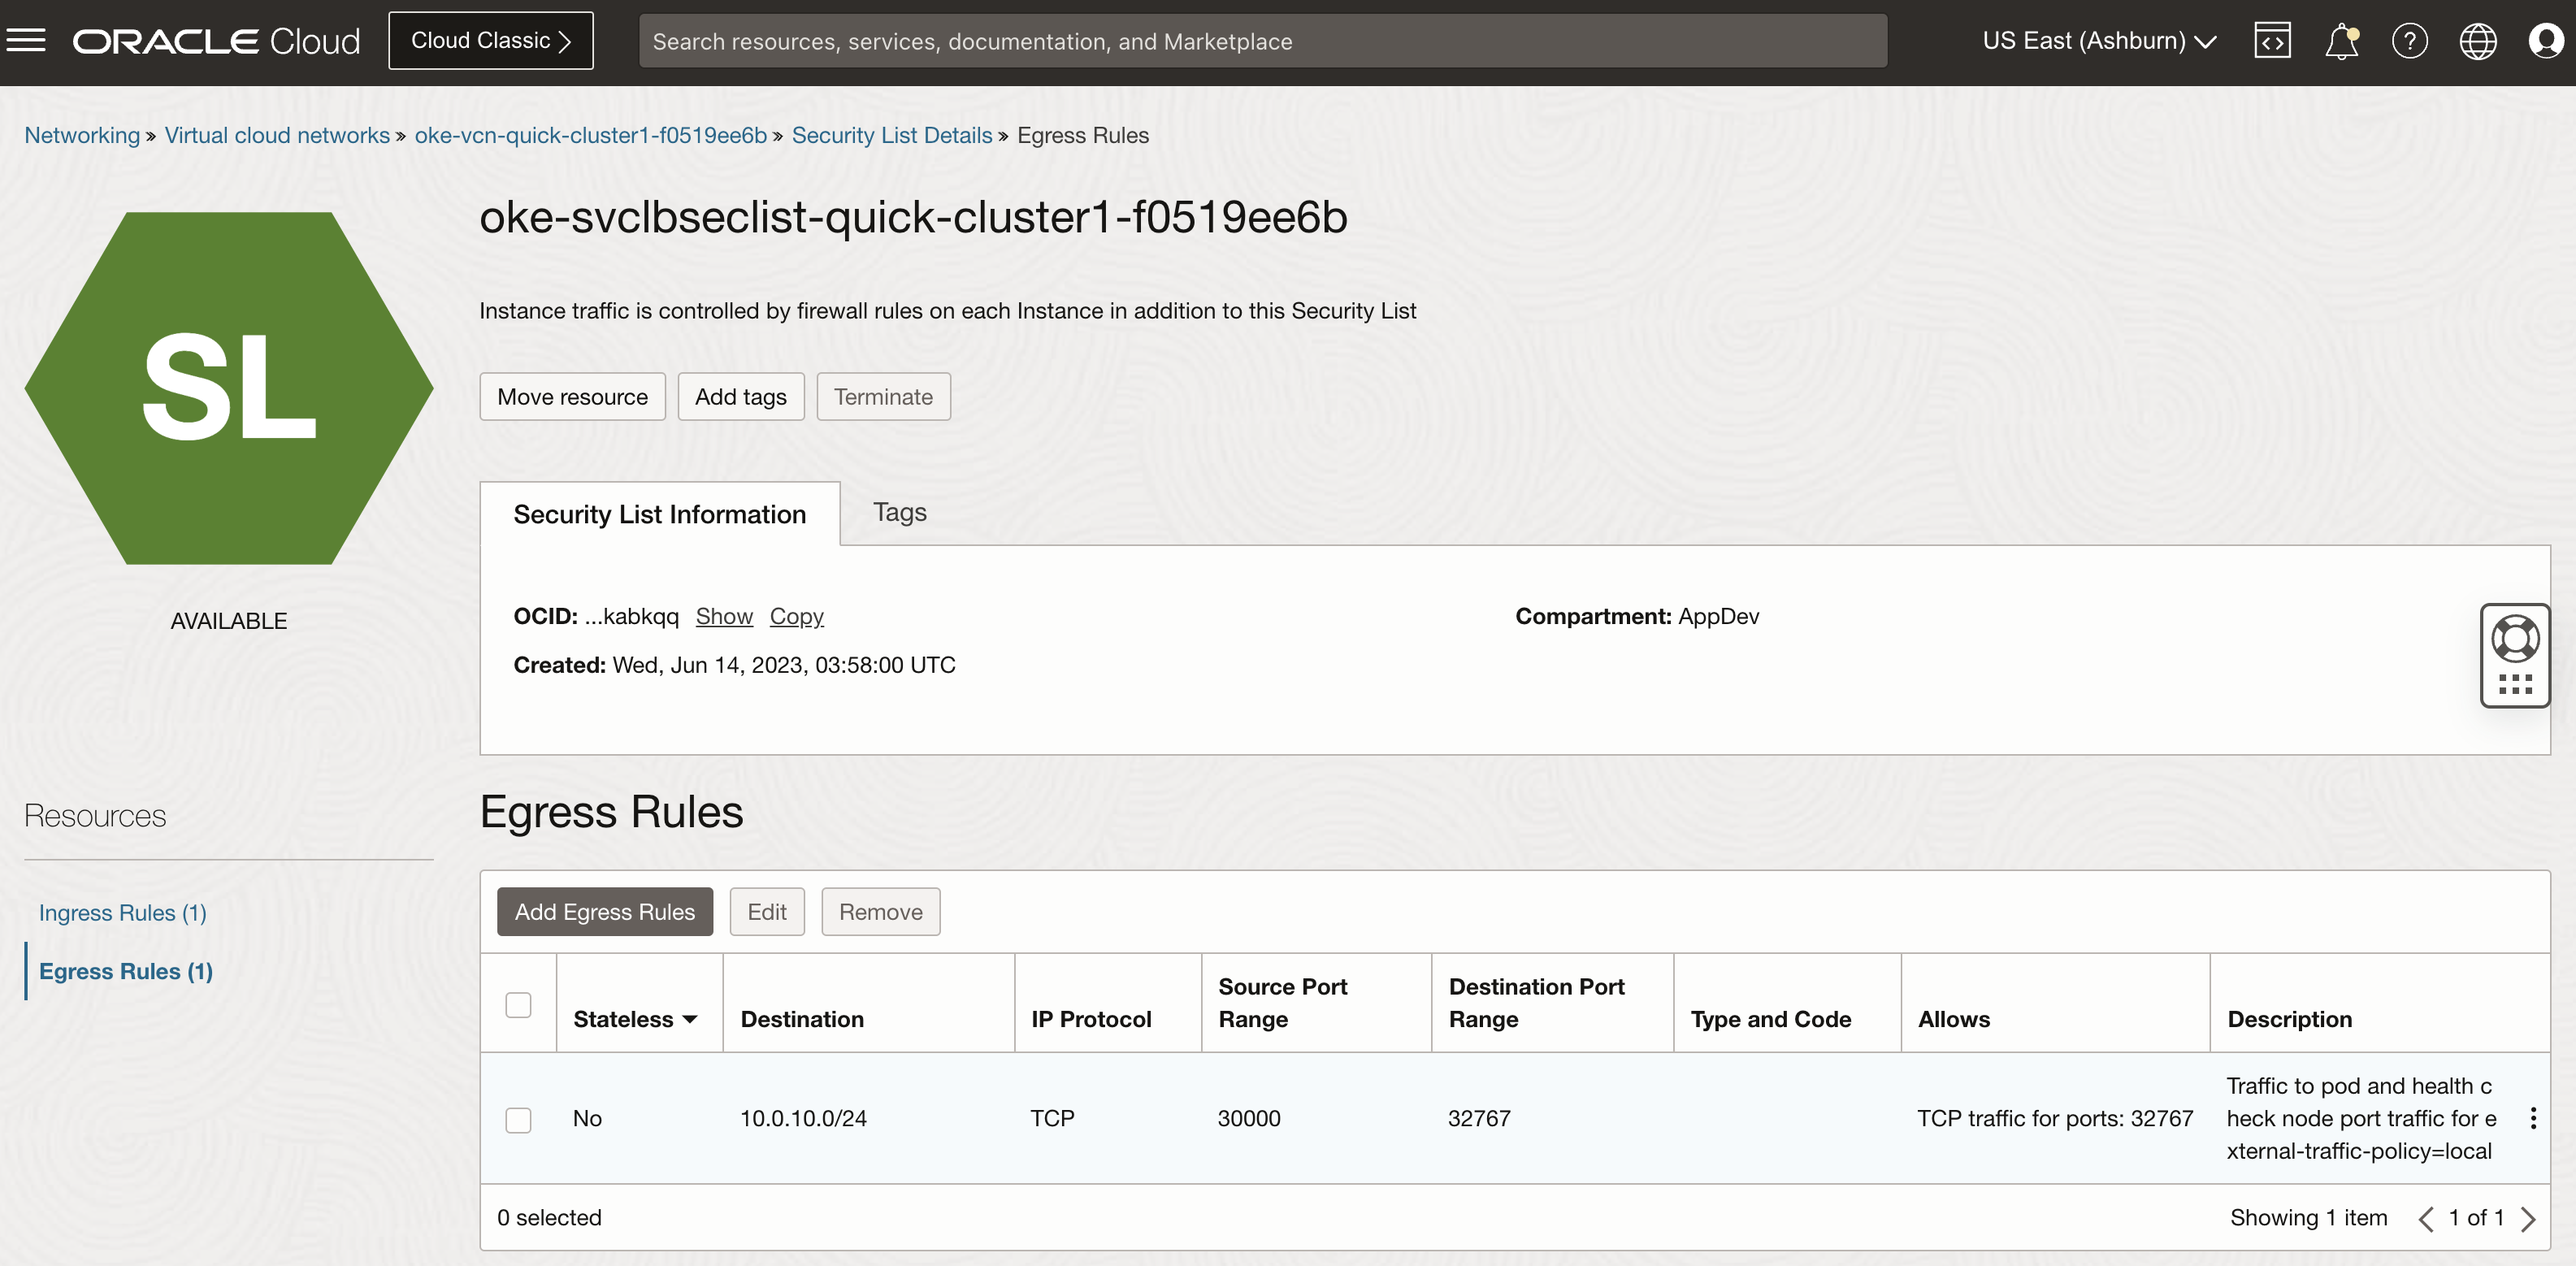
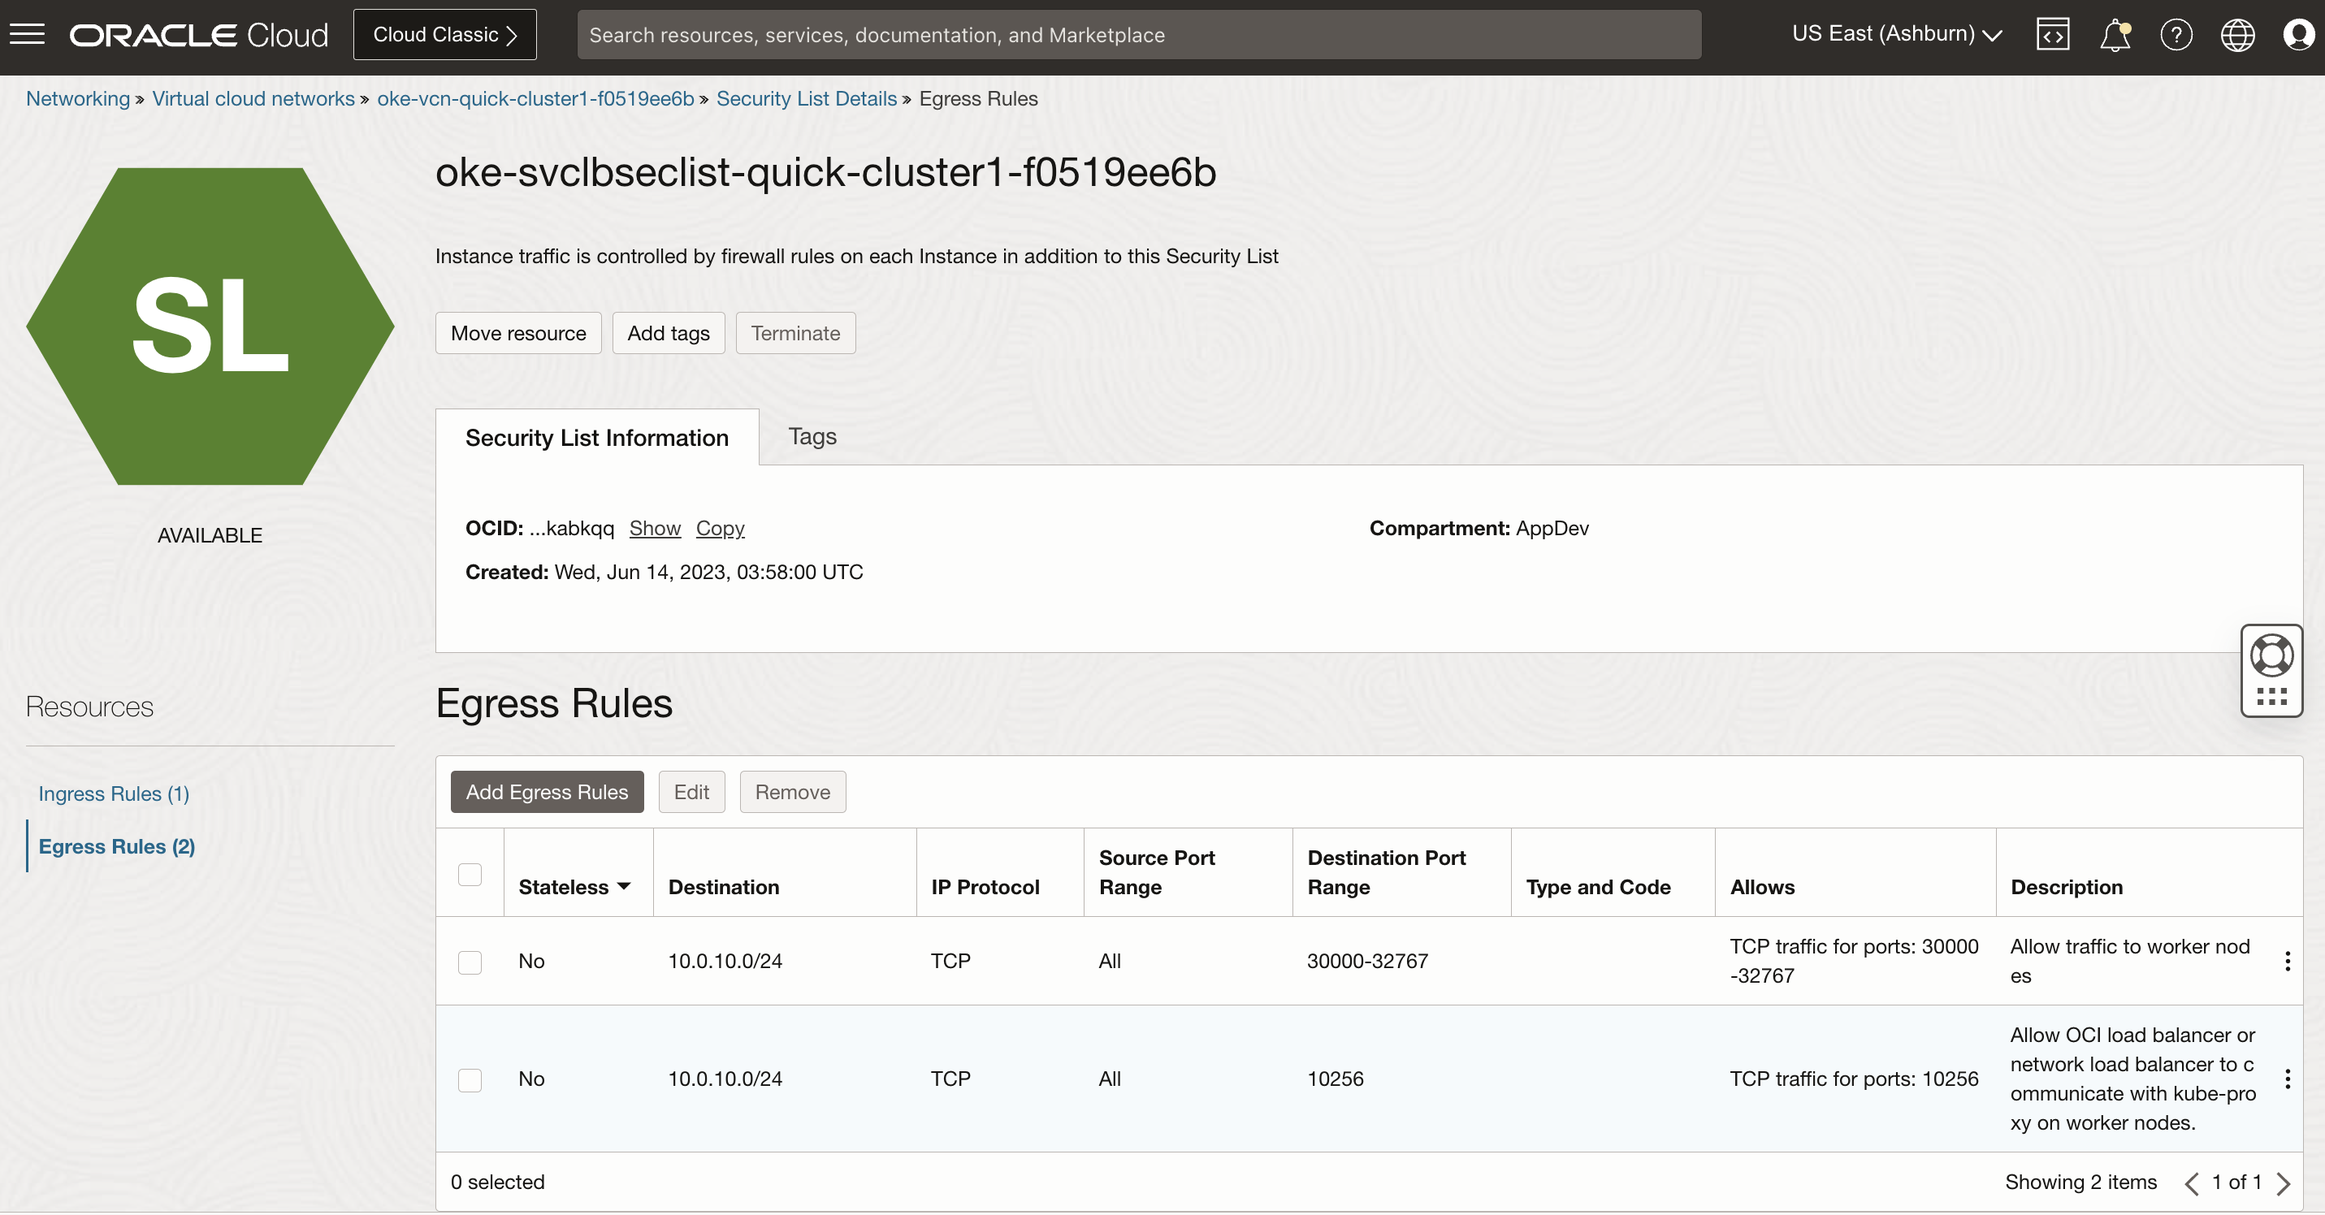
WMS ID: 11416 - oke-virtual-nodes: Updated and Fixed images as requested (#237)
* WMS: 11416 - oke-virtual-nodes init

* oke-virtual-nodes: Setup lab

* oke-virtual-nodes: Provision lab

* oke-virtual-nodes: Intro lab

* oke-virtual-nodes: updates

* oke virtual nodes update

* oke-virtual-nodes provision screeshots

* oke-virtual-nodes setup screeshots

* oke-virtual-nodes mushop screenshots

* oke-virtual-nodes: cleanup lab images

* oke-virtual-nodes labs screenshots update

* oke-virtual-nodes update

* oke-virtual-nodes: manifest updates

* oke-virtual-nodes: updates based on LabSquad feedback

* oke-virtual-nodes: labsquad feedback

* oke-virtual-nodes: cleanup

* oke-virtual-nodes: screenshot update

* oke-virtual-nodes qa=true changes

* oke-virtual-nodes self QA

* oke-virtual-nodes: ing removed from titles

* oke-virtual-nodes: images renamed for consistency

* oke-virtual-nodes self-QA complete

* oke-virtual-nodes: fixed issues raised by approver

* WMS 11416 OCW support update

* WMS 11416 - Updates and fixed based on review

* oke-virtual-nodes: improving setup steps

* oke-virtual-nodes: updated and fixed images

---------

diff --git a/oke-virtual-nodes/setup/setup.md b/oke-virtual-nodes/setup/setup.md
@@ -99,11 +99,11 @@ To create and use clusters with virtual nodes and virtual node pools, you must e
     * Destination Port Range: `30000-32767`
     * Description: `Allow traffic to worker nodes`
 
-    Click **Add Egress Rules** button
-
-    ![Add Egress Rules](images/oci-vcn-seclist-egress-add.png)
+    ![Add Egress Rule 1](images/oci-vcn-seclist-egress-add-1.png)
 
 1. Enter the **Egress Rule 2**.
+
+    Click **+Another Egress Rule** button
 
     * Destination Type: `CIDR`
     * Destination CIDR: `10.0.10.0/24`
@@ -111,6 +111,8 @@ To create and use clusters with virtual nodes and virtual node pools, you must e
     * Source Port Range: `ALL`
     * Destination Port Range: `10256`
     * Description: `Allow OCI load balancer or network load balancer to communicate with kube-proxy on worker nodes.`
+
+    ![Add Egress Rule 2](images/oci-vcn-seclist-egress-add-2.png)
 
     Click **Add Egress Rules** button
 
@@ -131,11 +133,11 @@ To create and use clusters with virtual nodes and virtual node pools, you must e
     * Destination Port Range: `80`
     * Description: `Allow inbound traffic to Load Balancer`
 
-    Click **Add Ingress Rules** button
-
-    ![Add Ingress Rules](images/oci-vcn-seclist-ingress-add.png)
+    ![Add Ingress Rule 1](images/oci-vcn-seclist-ingress-add-1.png)
 
 1. Enter the **Ingress Rule 2**.
+
+    Click **+Another Egress Rule** button
 
     * Source Type: `CIDR`
     * Source CIDR: `10.0.20.0/24`
@@ -144,15 +146,13 @@ To create and use clusters with virtual nodes and virtual node pools, you must e
     * Destination Port Range: `10256`
     * Description: `Allow OCI load balancer or network load balancer to communicate with kube-proxy on worker nodes.`
 
+    ![Add Ingress Rule 2](images/oci-vcn-seclist-ingress-add-2.png)
+
     Click **Add Ingress Rules** button
 
 1. Your Ingress Rules should looks like this:
 
     ![Ingress Rules Completed](images/oci-vcn-seclist-ingress-list.png)
-
-1. Click **Save Security List Rules** button.
-
-    ![Save Security List Rules](images/oci-vcn-seclist-save.png)
 
 ## Task 3: Configure the Kubernetes Cluster access on the OCI Cloud Shell
 
